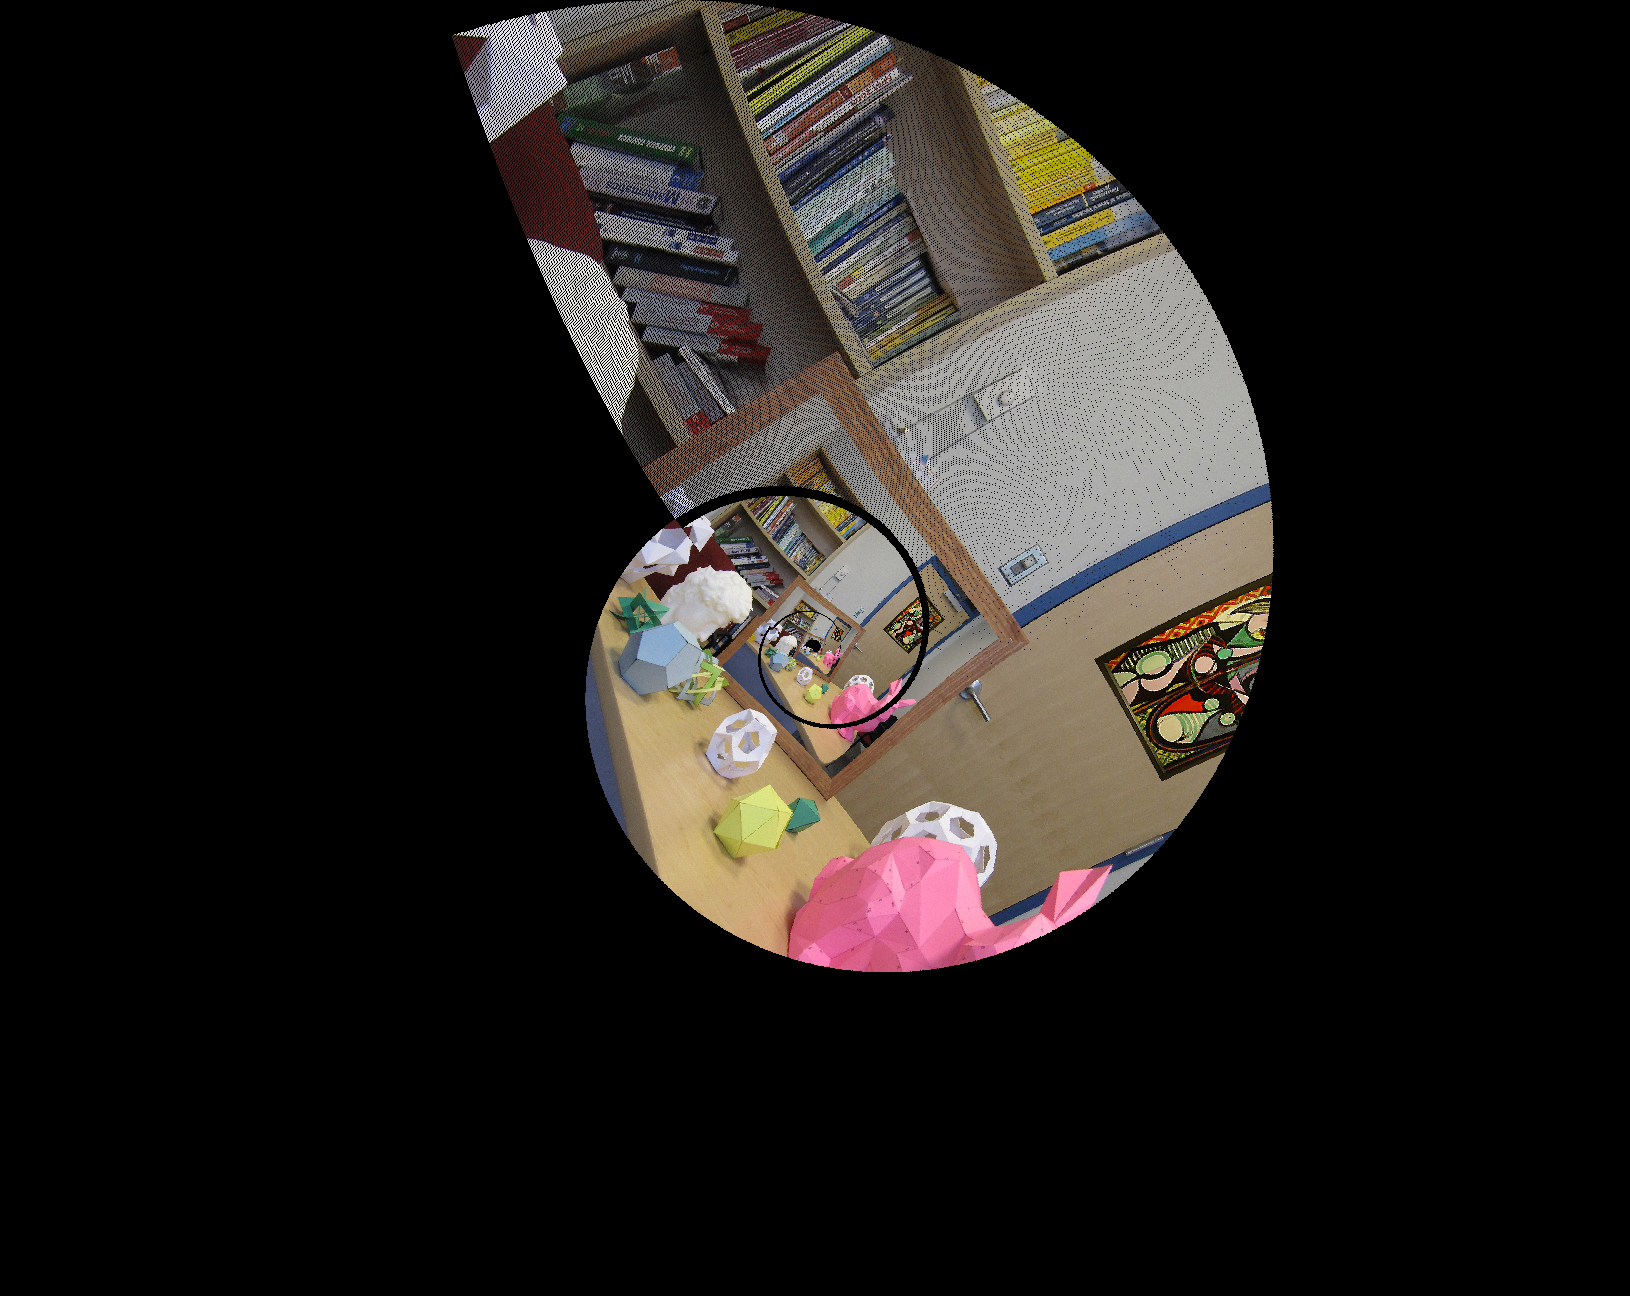
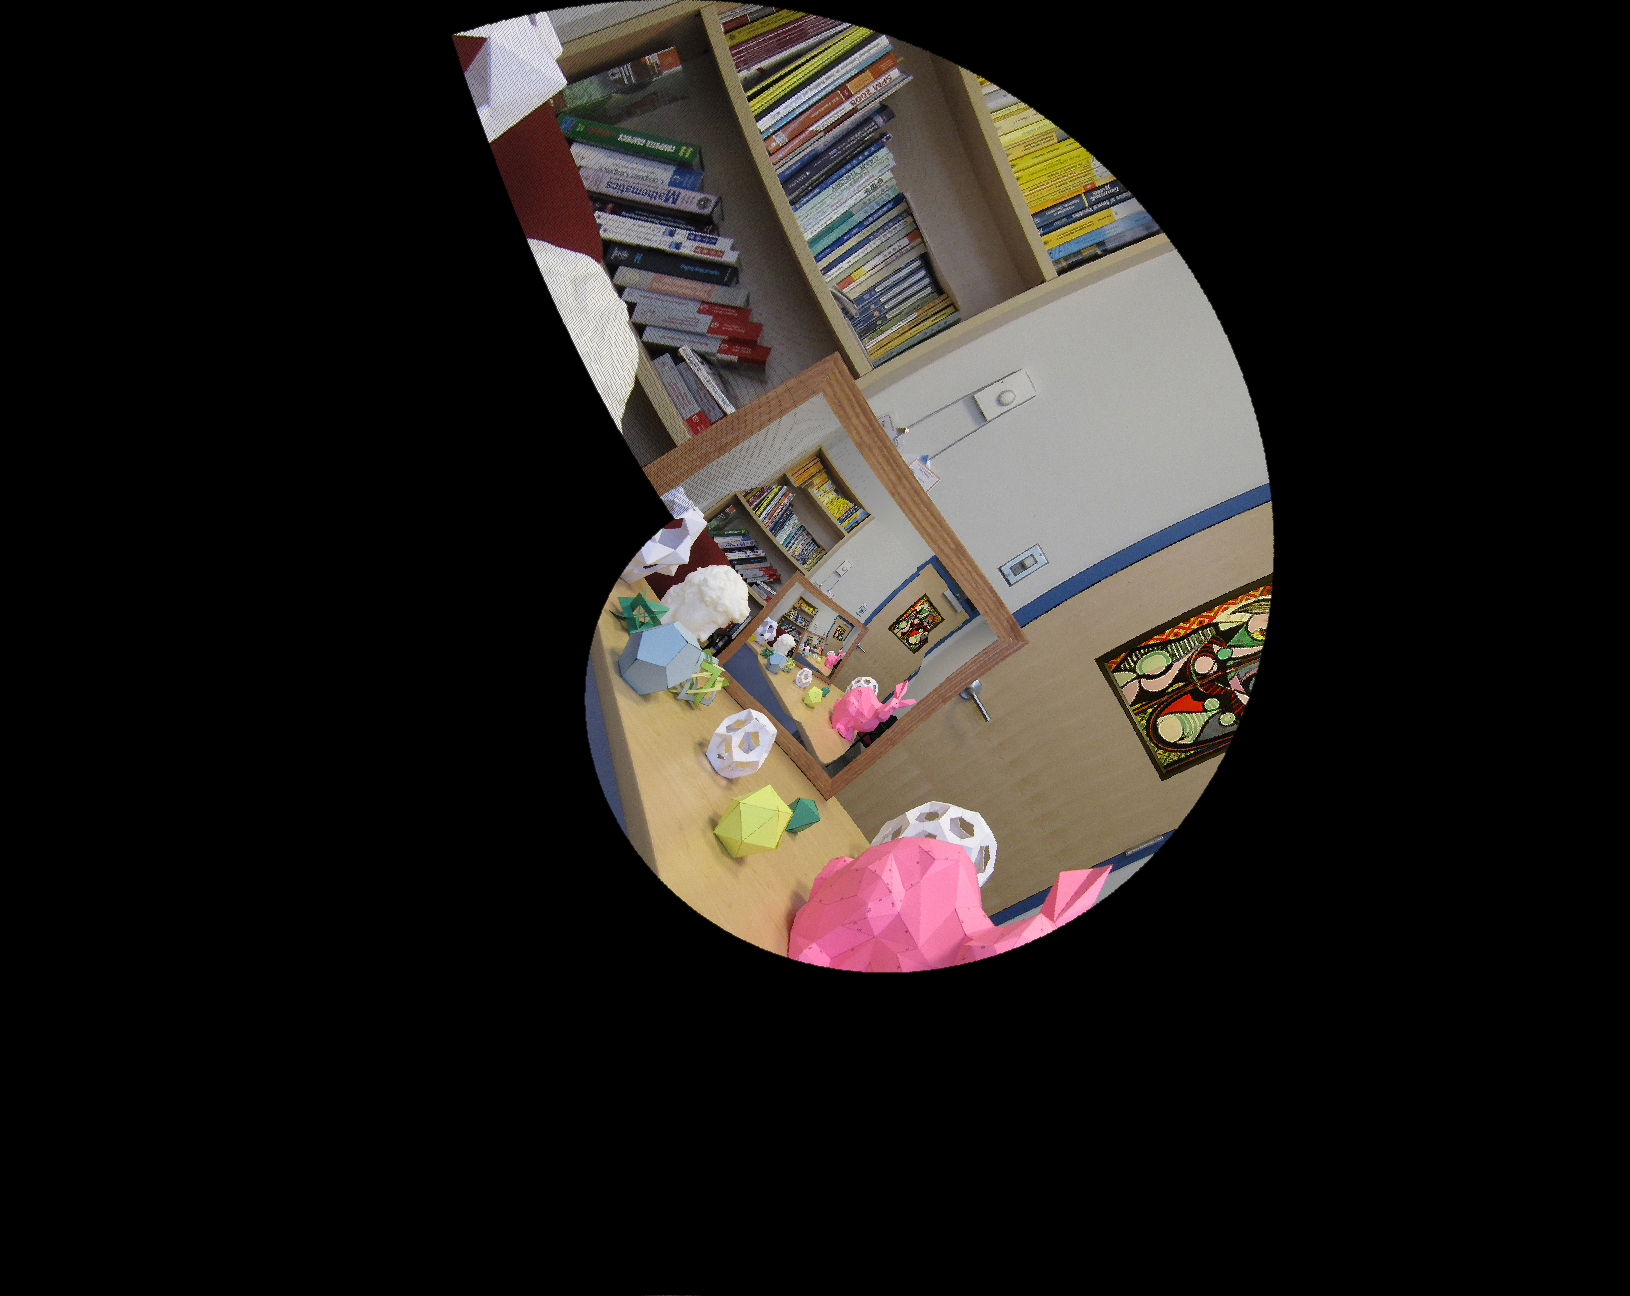
Fix blending and tiling

Changed region(s): [[0.2761, 0.0, 0.6135, 0.5864]]

diff --git a/5_escher.py b/5_escher.py
@@ -2,6 +2,7 @@ import cv2
 import matplotlib.pyplot as plt
 import numpy as np
 import pdb
+import scipy.signal
 import sys
 
 
@@ -18,6 +19,7 @@ def escher(img_path):
 
     zt = transform(z, r1, r2)
     new_img = change_coords(img, zt)
+    new_img = blend_zeros(new_img)
 
     filename = f"{'.'.join(img_path.split('.')[:-1])}_escher.{img_path.split('.')[-1]}"
     cv2.imwrite(filename, new_img)
@@ -31,10 +33,16 @@ def transform(z, r1, r2):
     annulus = np.where((np.abs(z) < r2) & (np.abs(z) > r1), np.log(z / r1), 0)
     annulus *= beta
 
-    h_disp = np.log(r2 / r1) + np.sin(alpha) * np.log(r2 / r1) * 1j
+    h_disp = np.log(r2 / r1) - (np.tan(alpha) * np.log(
+        r2 / r1) * np.sin(alpha)) + (1j * np.sin(alpha) * np.log(r2 / r1))
     v_disp = -2j * np.pi
-    annulus = np.concatenate((annulus, annulus + h_disp, annulus + 2 * h_disp))
-    annulus = np.concatenate((annulus, annulus + v_disp))
+    annulus = np.concatenate((
+        annulus - h_disp,
+        annulus,
+        annulus + h_disp,
+        annulus + 2 * h_disp,
+    ))
+    # annulus = np.concatenate((annulus, annulus + v_disp))
 
     annulus = np.exp(annulus)
 
@@ -64,6 +72,32 @@ def change_coords(img, new_coords):
             new_img[y_new[i, j], x_new[i, j]] = img[i % img.shape[0], j]
 
     return new_img
+
+
+def blend_zeros(arr):
+    new_arr = np.copy(arr).astype(int)
+    zero = np.nonzero(np.all(arr == [0, 0, 0], axis=-1))
+
+    r = (np.mod(zero[0] + 1, arr.shape[0]), zero[1])
+    l = (np.mod(zero[0] - 1, arr.shape[0]), zero[1])
+    u = (zero[0], zero[1] - 1)
+    d = (zero[0], np.mod(zero[1] + 1, arr.shape[1]))
+    ur = (np.mod(zero[0] + 1, arr.shape[0]), zero[1] - 1)
+    ul = (zero[0] - 1, zero[1] - 1)
+    dr = (np.mod(zero[0] + 1, arr.shape[0]), np.mod(zero[1] + 1, arr.shape[1]))
+    dl = (zero[0] - 1, np.mod(zero[1] + 1, arr.shape[1]))
+
+    new_arr[zero] += arr[r]
+    new_arr[zero] += arr[l]
+    new_arr[zero] += arr[u]
+    new_arr[zero] += arr[d]
+    new_arr[zero] += arr[ur]
+    new_arr[zero] += arr[ul]
+    new_arr[zero] += arr[dr]
+    new_arr[zero] += arr[dl]
+    new_arr[zero] = new_arr[zero] / 8
+
+    return new_arr.astype("uint8")
 
 
 if __name__ == "__main__":
